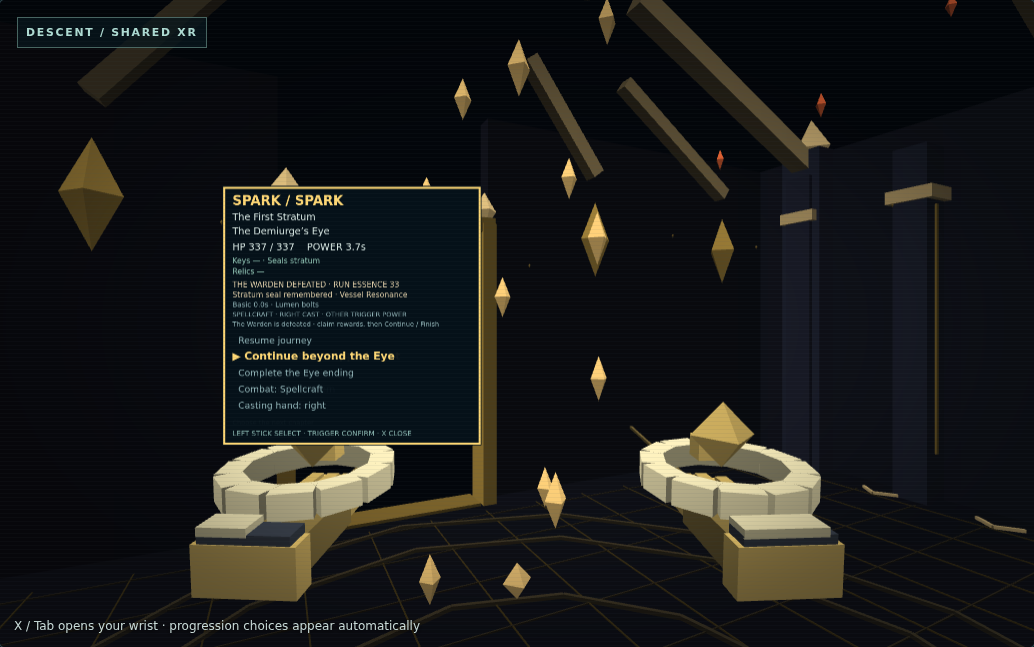
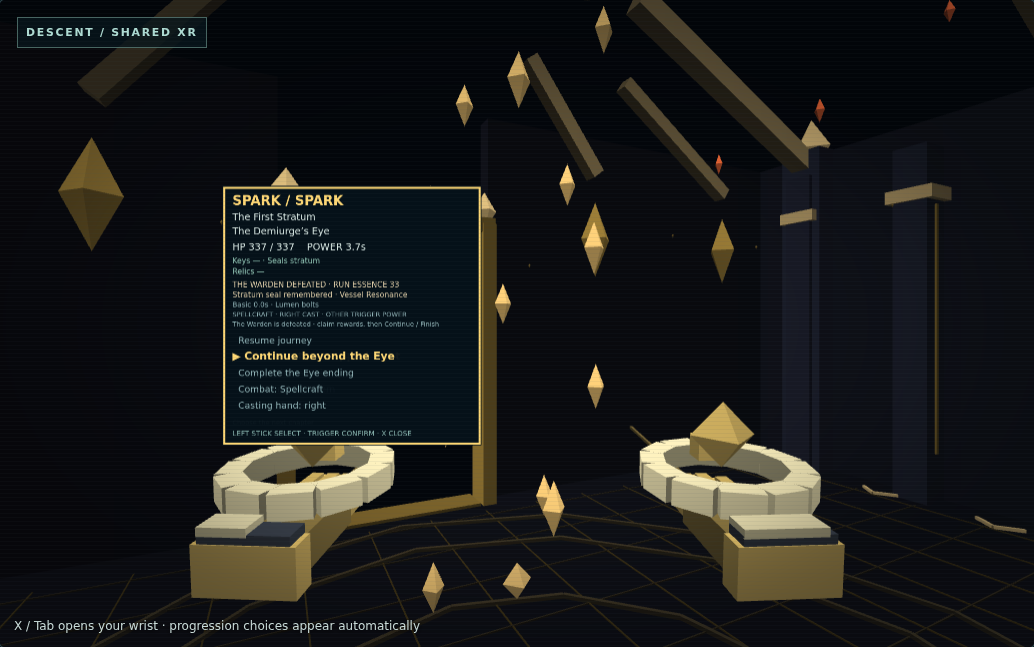
fix(vr): seed paused guardian checkpoints without replaying victory
Reflect canonical room and cleared history before paused rendering, including
older saves and later boss banners. Preserve native simulation and saved data.

Reproduce and cover the paused Eye restoration regression. Repeat 459 tests,
all four browser suites and actual staged milestone/continuation checks.

diff --git a/public/vr/spark-guardian-presentation.js b/public/vr/spark-guardian-presentation.js
@@ -6,6 +6,16 @@ export const guardianSpec=room=>SPECS[room]||null;
 export class GuardianPresentation{
  constructor({now=()=>globalThis.performance?.now?.()??Date.now()}={}){this.now=now;this.reset();}
  reset(){this.room=null;this.boss=null;this.winding=false;this.stage=1;this.victory=0;this.events=[];this.defeated=false;this.transition=0;this.victoryStarted=null;this.defeatPoint=null;this.hounds=0;}
+ // A loaded checkpoint can be paused at a choice and never take a sim step.
+ // Reflect its canonical state immediately, without replaying transient cues.
+ seed(s){
+  this.reset();this.room=s.roomId;const spec=guardianSpec(s.roomId);
+  this.boss=s.guardians?.find(g=>g.kind===spec?.kind)||null;this.stage=this.boss?.stage??1;this.winding=this.boss?.windup>0;
+  // Cleared history also survives old saves or a later boss replacing the
+  // single latest bossDefeated banner. Seeding never emits a victory event.
+  this.defeated=!!spec&&!!s.cleared;
+  this.hounds=spec?.kind==='warden'?(s.enemies||[]).filter(e=>e.kind==='hound'&&e.hp>0).length:0;
+ }
  observe(s,dt){
   if(this.room!==s.roomId){this.reset();this.room=s.roomId;}
   this.victory=Math.max(0,this.victory-dt);

diff --git a/public/vr/spark-xr-adapters.js b/public/vr/spark-xr-adapters.js
@@ -147,7 +147,9 @@ export class DescentXRAdapter {
         return {...e,visualHeight:.82+(launch?launch.height-.82:0)*blend};}),
       gates:s.gates.map(g=>({...g,position:exitPosition(g.direction),entry:gateEntryStatus(run,g.direction)}))};
   }
-  snapshot(){return {...this.snapshotBase(),vessel:this.presentation.describe(this.state.run.form),
+  snapshot(){const s=this.snapshotBase();
+    if(this.guardian.room!==s.roomId||(guardianSpec(s.roomId)&&s.cleared&&!this.guardian.defeated))this.guardian.seed(s);
+    return {...s,vessel:this.presentation.describe(this.state.run.form),
     transform:this.presentation.transform,feedback:this.presentation.feedback,
     attackAnimation:this.presentation.action,attackResult:this.presentation.result,guardianVisual:this.guardian.describe(),moreBounce:this.moreBounce.snapshot(this.state.run,this.controls)};}
   drainEvents(){return [...this.presentation.drainEvents(),...this.guardian.drainEvents(),...this.moreBounce.drainEvents()];}

diff --git a/docs/vr-warden/rung-3.5.md b/docs/vr-warden/rung-3.5.md
@@ -91,6 +91,11 @@ The VR checkpoint remains `spark-substrate-immersive-vr-v1`, schema
 Descent/Sideways/Duel saves and separate Spellcraft preferences keep their existing
 namespaces. No online API, account or telemetry operation is introduced.
 
+Paused checkpoint restoration seeds guardian visuals from canonical room/cleared
+history before the first render. An earned Eye milestone therefore restores the
+fractured Eye immediately, with no repeated defeat animation or cue. This also
+handles older saves and later boss banners without changing the saved run.
+
 ## Software verification and evidence
 
 Exact commands, results, fixture labels and protected-file checks are recorded in
@@ -189,9 +194,9 @@ Measured local sample (eight frames after warmup, **CPU submission only**):
 
 | Quality | Median / p95 ms | Vertices submitted (two eyes) | Geometry upload KiB/frame |
 |---|---:|---:|---:|
-| performance | 11.1 / 16.4 | 34,248 | 258.2 |
-| balanced | 8.8 / 15.5 | 44,856 | 357.2 |
-| high | 10.8 / 13.2 | 58,872 | 487.7 |
+| performance | 9.4 / 18.9 | 34,248 | 258.2 |
+| balanced | 13.2 / 17.4 | 44,856 | 357.2 |
+| high | 9.6 / 12.9 | 58,872 | 487.7 |
 
 Known boundaries: procedural faceted art, original planar hitboxes rather than
 anatomical collision, bounded effects rather than a cinematic camera, optional
